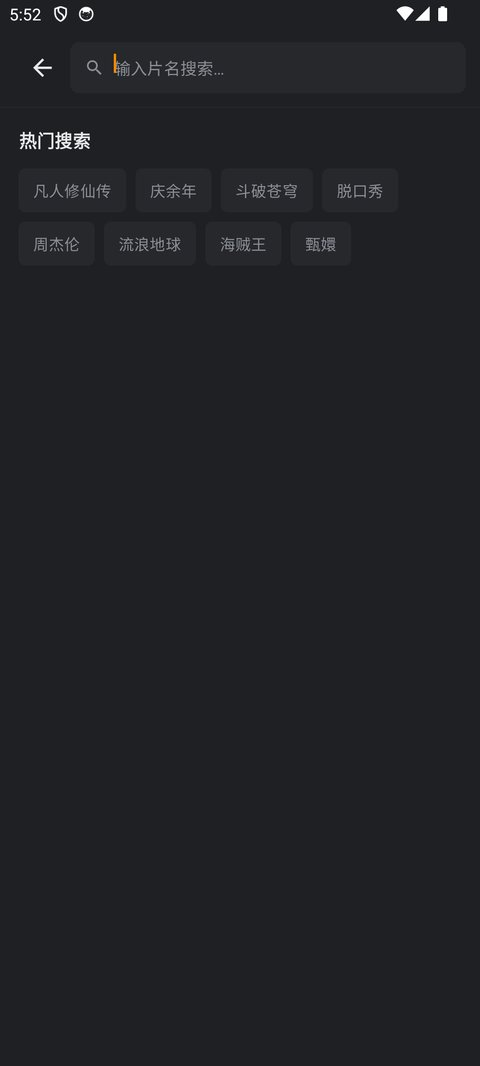
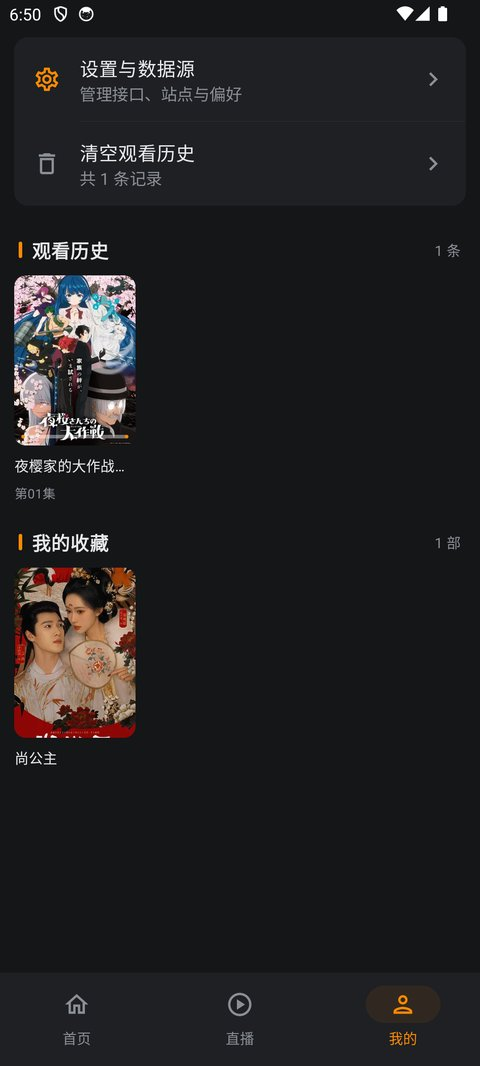
docs: 移除两处亮点表述；修正「我的」截图；下载链接指向 latest release 页

diff --git a/docs/index.html b/docs/index.html
@@ -121,7 +121,7 @@
     <span class="badge">🤖 Android 7.0+</span>
   </div>
   <div>
-    <a class="btn" href="https://github.com/csuhan/tvbox/releases/latest/download/app-release.apk">⬇ 下载 APK</a>
+    <a class="btn" href="https://github.com/csuhan/tvbox/releases/latest">⬇ 下载 APK</a>
     <a class="btn ghost" href="https://github.com/csuhan/tvbox">GitHub 仓库</a>
   </div>
   <p class="ver">v1.0.0 · 仅请求网络权限 · 明暗双主题</p>
@@ -134,11 +134,9 @@
     <div class="grid">
       <div class="feat"><div class="ic">🤖</div><h3>纯 AI 打造</h3><p>从架构到每一行代码，100% 由 AI（KIMI-K3）编写完成，是 AI 工程能力的完整展示。</p></div>
       <div class="feat"><div class="ic">🚫</div><h3>零打扰</h3><p>无广告、无弹窗、无账号体系、无埋点统计。打开就看，看完就走。</p></div>
-      <div class="feat"><div class="ic">🔁</div><h3>小窗 ⇄ 大窗无缝续播</h3><p>详情页小窗与全屏播放共用同一播放器实例，切换零加载、进度零中断，返回不黑屏。</p></div>
       <div class="feat"><div class="ic">🪶</div><h3>极致小巧</h3><p>R8 全量压缩，Release APK 仅约 2.5MB，秒下载秒安装。</p></div>
       <div class="feat"><div class="ic">🔍</div><h3>网页嗅探</h3><p>非直连播放页自动在后台嗅探真实视频地址，并尝试接口内置解析。</p></div>
       <div class="feat"><div class="ic">📺</div><h3>点播 + 直播</h3><p>兼容标准 TVBox 接口，苹果CMS 采集源、多直播源、m3u/txt 列表全支持。</p></div>
-      <div class="feat"><div class="ic">💡</div><h3>播放中屏幕常亮</h3><p>观影不熄屏，暂停自动恢复，省电又贴心。</p></div>
       <div class="feat"><div class="ic">🎨</div><h3>明暗双主题</h3><p>跟随系统自动切换，白天夜晚都舒适。</p></div>
     </div>
   </div>

diff --git a/README.md b/README.md
@@ -11,8 +11,6 @@
 
 - **纯粹体验**：无广告、无账号体系、无埋点统计，打开就看
 - **极致小巧**：Release APK 仅约 2.5 MB（R8 全量压缩）
-- **小窗 ⇄ 大窗无缝续播**：详情页内嵌小窗与全屏播放共用同一播放器实例，切换零加载、进度零中断；大窗内换集，返回小窗自动同步
-- **播放中屏幕常亮**：暂停自动恢复息屏，省电贴心
 - **明暗双主题**：跟随系统自动切换
 
 ## 📱 截图
